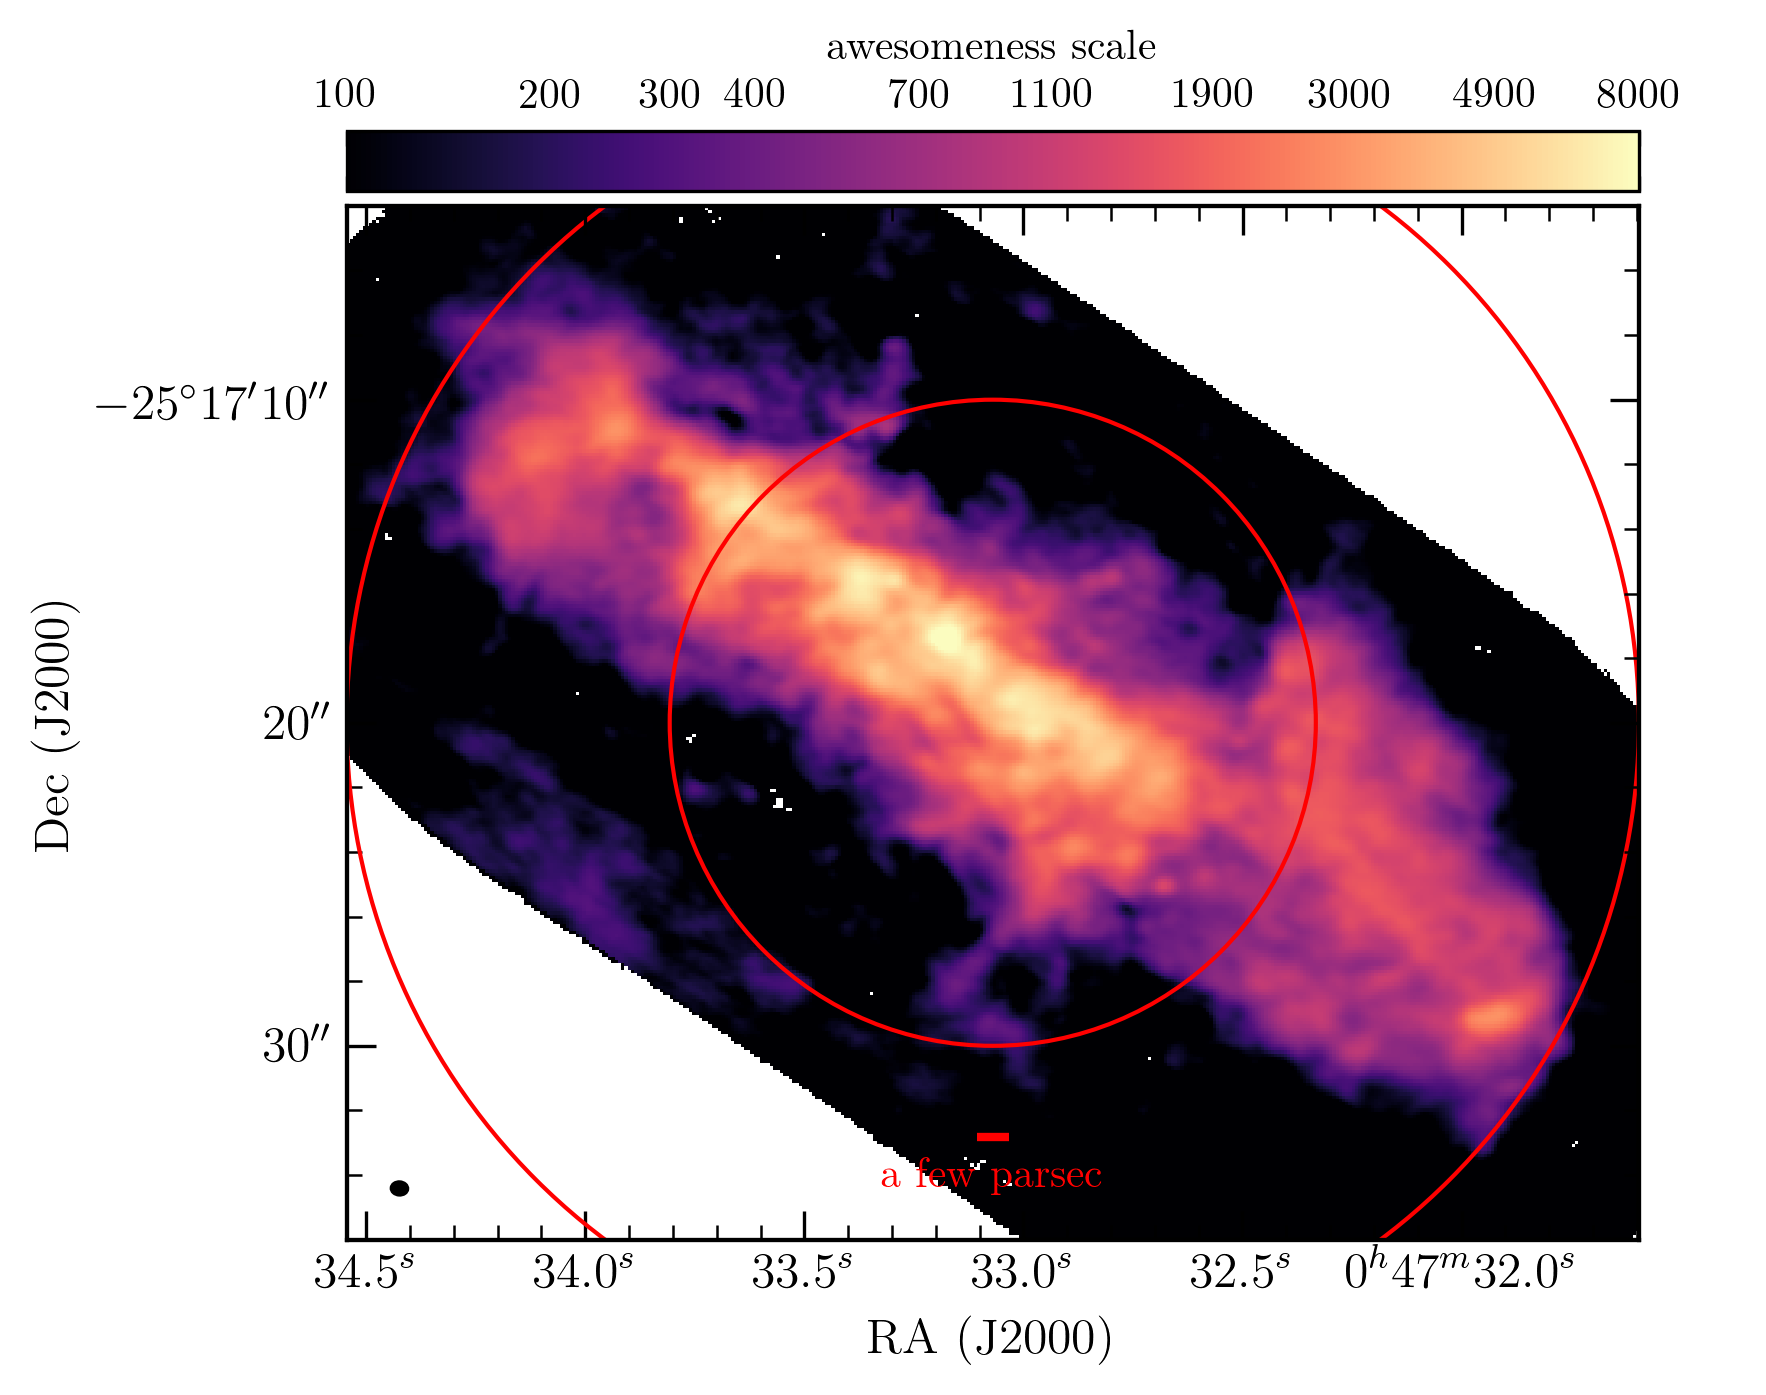
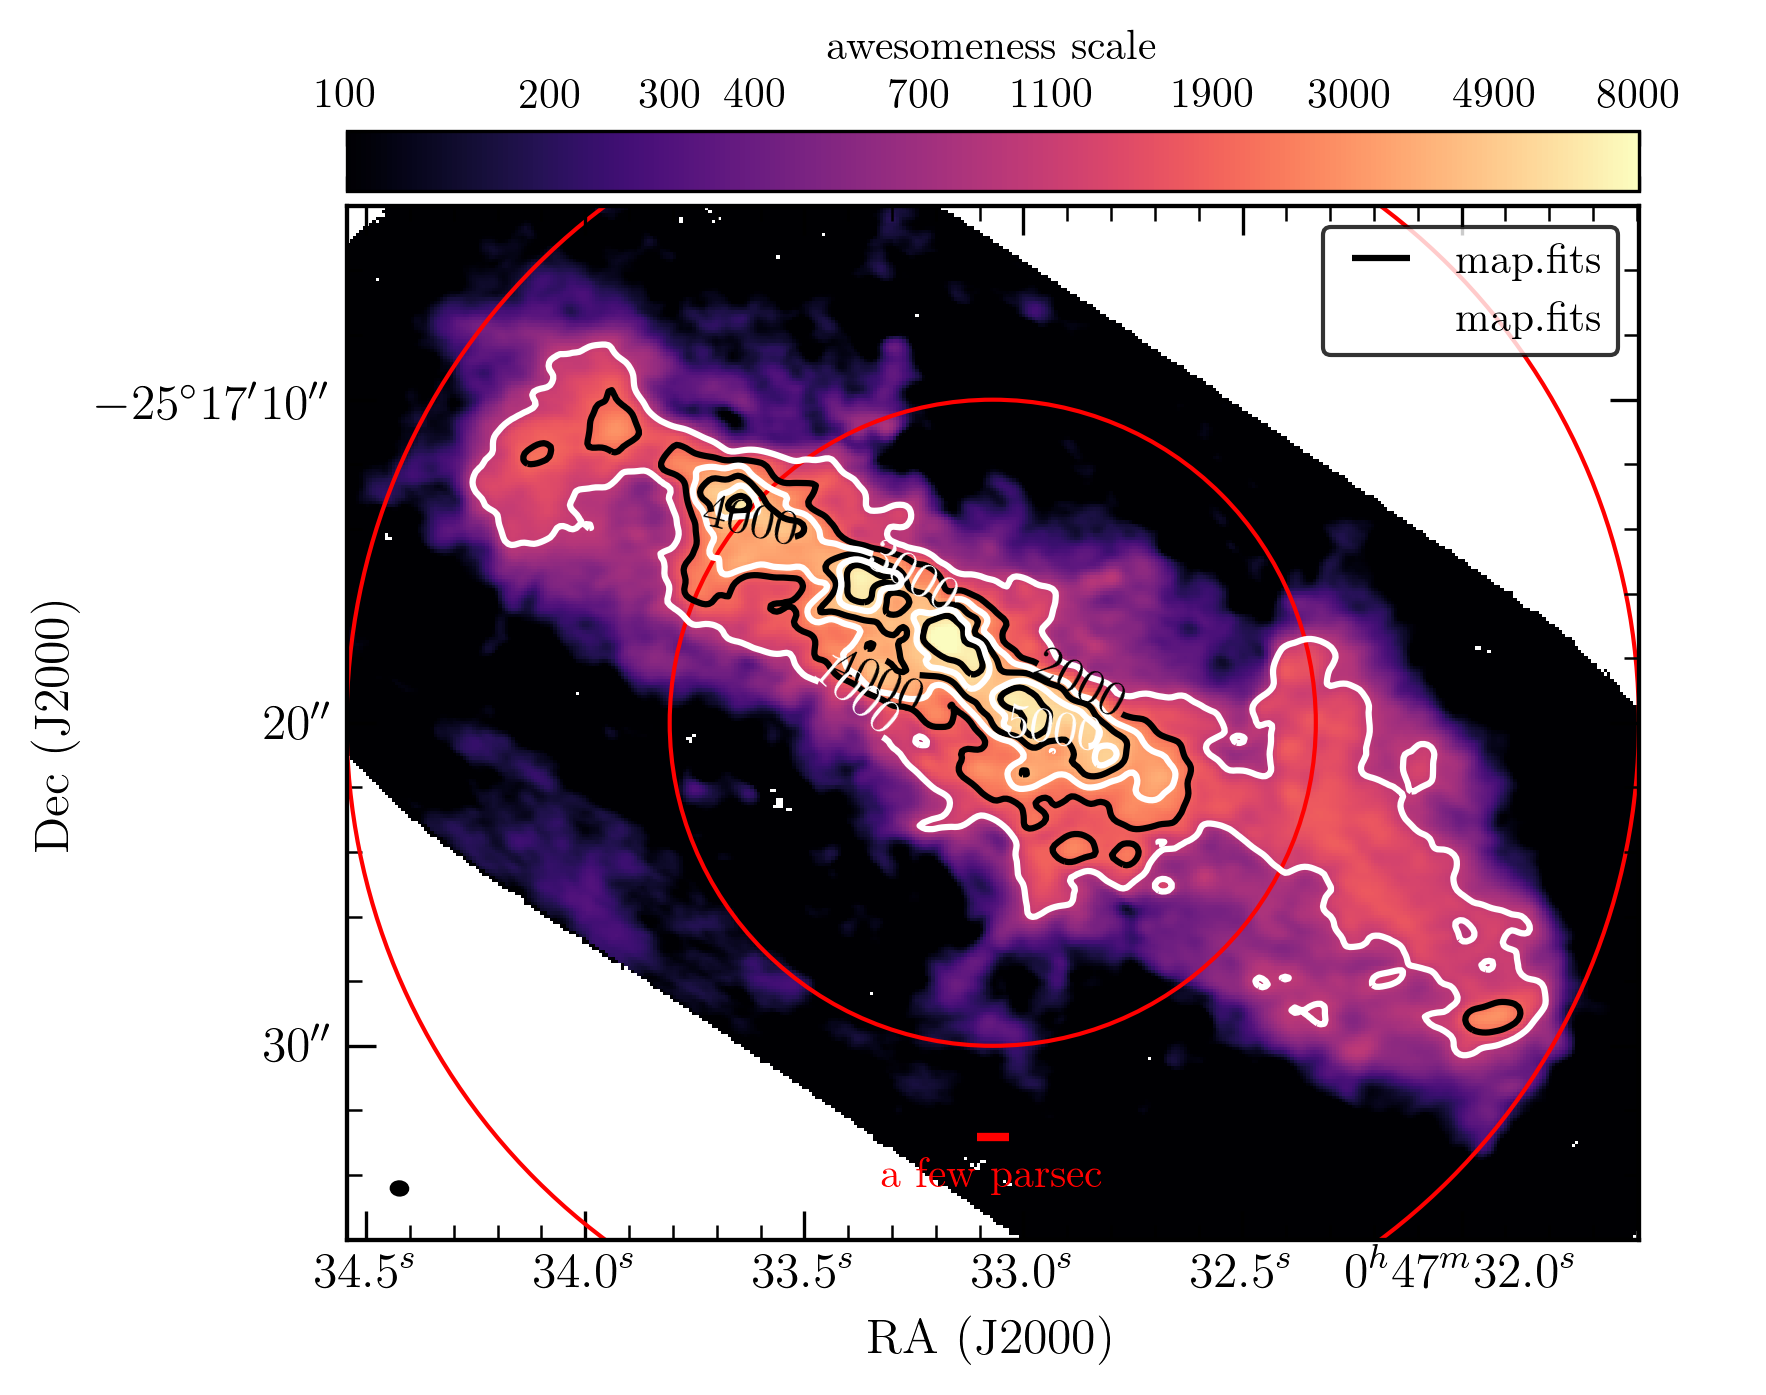
ignoring useless FITS header warnings works now

diff --git a/plot/_helpers.py b/plot/_helpers.py
@@ -16,6 +16,7 @@ __all__ = ['_check_image_type','_set_up_figure','_set_up_grid','_set_up_panel_fi
 import os
 import aplpy
 import numpy as np
+import warnings
 from astropy.coordinates import SkyCoord as SkyCoord
 from astropy import units as u
 from astropy.coordinates import Angle as Angle
@@ -53,10 +54,14 @@ def _set_up_figure(fitsfile, kwargs):
     figsize = kwargs.get('figsize', None)     # A4 in inches: (8.267,11.692)``
     channel = kwargs.get('channel', None)
     if ( channel == None ):
-        fig = aplpy.FITSFigure(fitsfile, figsize=figsize)
+        with warnings.catch_warnings():
+            warnings.filterwarnings("ignore")
+            fig = aplpy.FITSFigure(fitsfile, figsize=figsize)
     else:
         channel,physical = _channel_physical(fitsfile, channel)
-        fig = aplpy.FITSFigure(fitsfile, slices=[channel], figsize=figsize)
+        with warnings.catch_warnings():
+            warnings.filterwarnings("ignore")
+            fig = aplpy.FITSFigure(fitsfile, slices=[channel], figsize=figsize)
     return fig
 
 
@@ -107,7 +112,9 @@ def _set_up_panel_figure(main_fig, panel, kwargs):
     elif ( panel['type'] == 'colorbar' ):
         print("\x1b[0;34;40m[easy_aplpy]\x1b[0m plotting panel "+str(panel['num']+1)+" of "+str(panel['npanels'])+", colorbar")
     figsize = kwargs.get('figsize', (8.267,11.692))     # A4 in inches
-    fig = aplpy.FITSFigure(panel['file'], figure=main_fig, subplot=[panel['x'],panel['y'],panel['width'],panel['height']], dimensions=[0,1], slices=[panel['channel']])
+    with warnings.catch_warnings():
+        warnings.filterwarnings("ignore")
+        fig = aplpy.FITSFigure(panel['file'], figure=main_fig, subplot=[panel['x'],panel['y'],panel['width'],panel['height']], dimensions=[0,1], slices=[panel['channel']])
     return fig
 
 

diff --git a/test_data/manual_tests.py b/test_data/manual_tests.py
@@ -22,7 +22,7 @@ easy_aplpy.plot.map('map.fits',
     vmax = 8000,
     stretch  = 'log',
     recenter = [SkyCoord('00h47m33.07s -25d17m20.0s'), 40.0*u.arcsec, 32.0*u.arcsec],
-    contour  = [['map.fits', [2e3,4e3,6e3], 'black'],
+    contours = [['map.fits', [2e3,4e3,6e3], 'black'],
                 ['map.fits', [1e3,3e3,5e3], 'white']],
     clabel   = {'fmt': '%i'},
     legend   = True,
@@ -53,7 +53,7 @@ easy_aplpy.plot.map('cube.fits',
     vmax     = 60,
     stretch  = 'log',
     recenter = [SkyCoord('00h47m33.07s -25d17m20.0s'), 40.0*u.arcsec, 32.0*u.arcsec],
-    contour  = [['map.fits', [2e3,4e3,6e3], 'black'],
+    contours = [['map.fits', [2e3,4e3,6e3], 'black'],
                 ['map.fits', [1e3,3e3,5e3], 'white']],
     clabel   = {'fmt': '%i'},
     legend   = True,
@@ -78,7 +78,7 @@ easy_aplpy.plot.map('pv.fits',
     stretch = 'log',
     labels  = ['offset ["]','velocity [km\,s$^{-1}$]'],
     recenter = [0.*u.arcsec, 250.*u.km/u.s, 40.*u.arcsec, 500.*u.km/u.s],
-    contour  = [['pv.fits', [5,10,15], 'black']],
+    contours = [['pv.fits', [5,10,15], 'black']],
     clabel   = {'fmt': '%i'},
     colorbar = ['right', 'brightness temperature [K]']
     )

diff --git a/helpers/_helpers.py b/helpers/_helpers.py
@@ -31,7 +31,7 @@ def hide_nonfunctionalWarnings():
 def hide_FITSwarnings():
     try:
         import warnings
-        warnings.filterwarnings("ignore", message="PC01_01 = 1.000000000000E+00 indices in parameterized keywords must not have leading zeroes.")
+        warnings.filterwarnings("ignore", message=".*indices in parameterized keywords must not have leading zeroes.*")
     except:
         raise Warning("easy_aplpy: Could not switch off aplpy warnings about leading zeros in FITS header. They do NOT affect plotting at all.")
 
@@ -41,6 +41,7 @@ def hide_ComparisonWarnings():
         import warnings
         warnings.filterwarnings("ignore", message="invalid value encountered in less")
         warnings.filterwarnings("ignore", message="Unicode equal comparison failed to convert both arguments to Unicode - interpreting them as being unequal")
+        warnings.filterwarnings("ignore", message="comparison to `None` will result in an elementwise object comparison in the future.")
     except:
         raise Warning("easy_aplpy: Could not switch off aplpy comparison warnings. These are raised within aplpy and do NOT affect plotting at all.")
 
